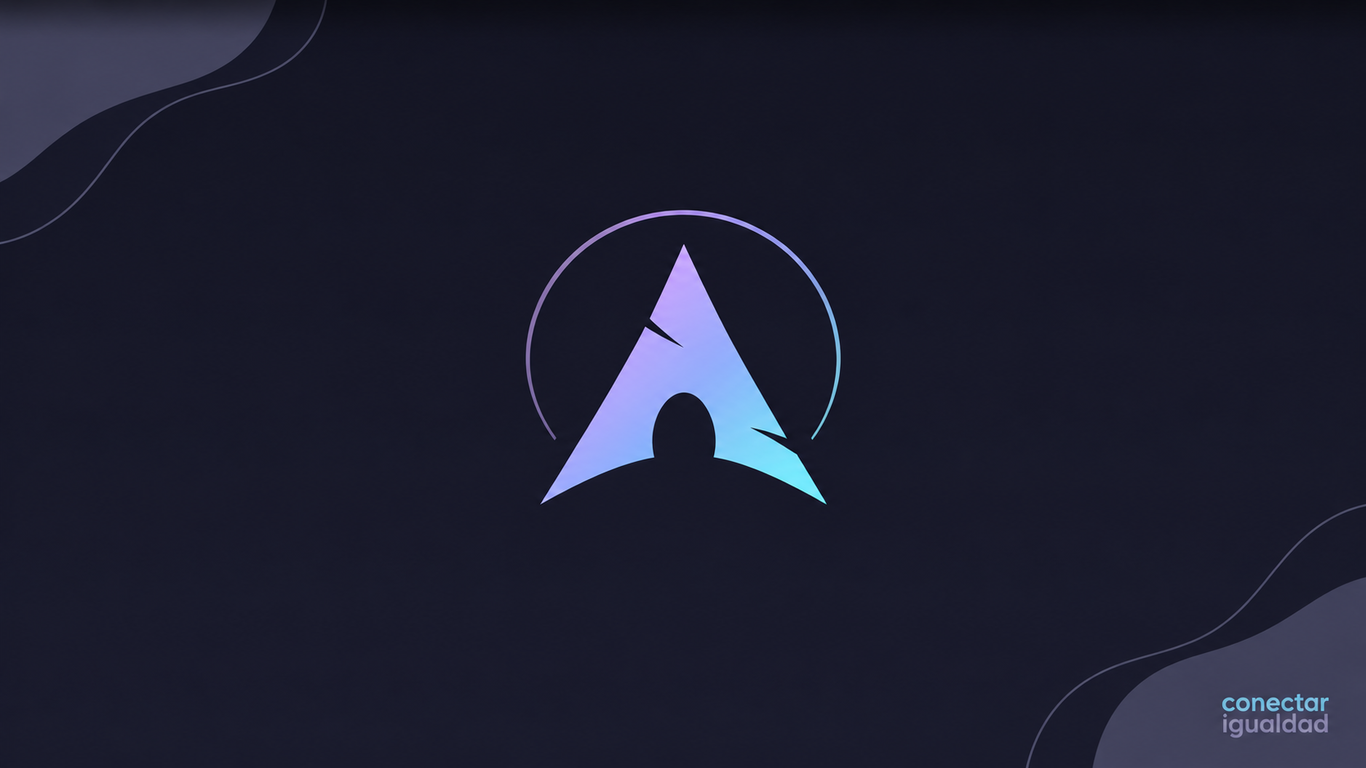
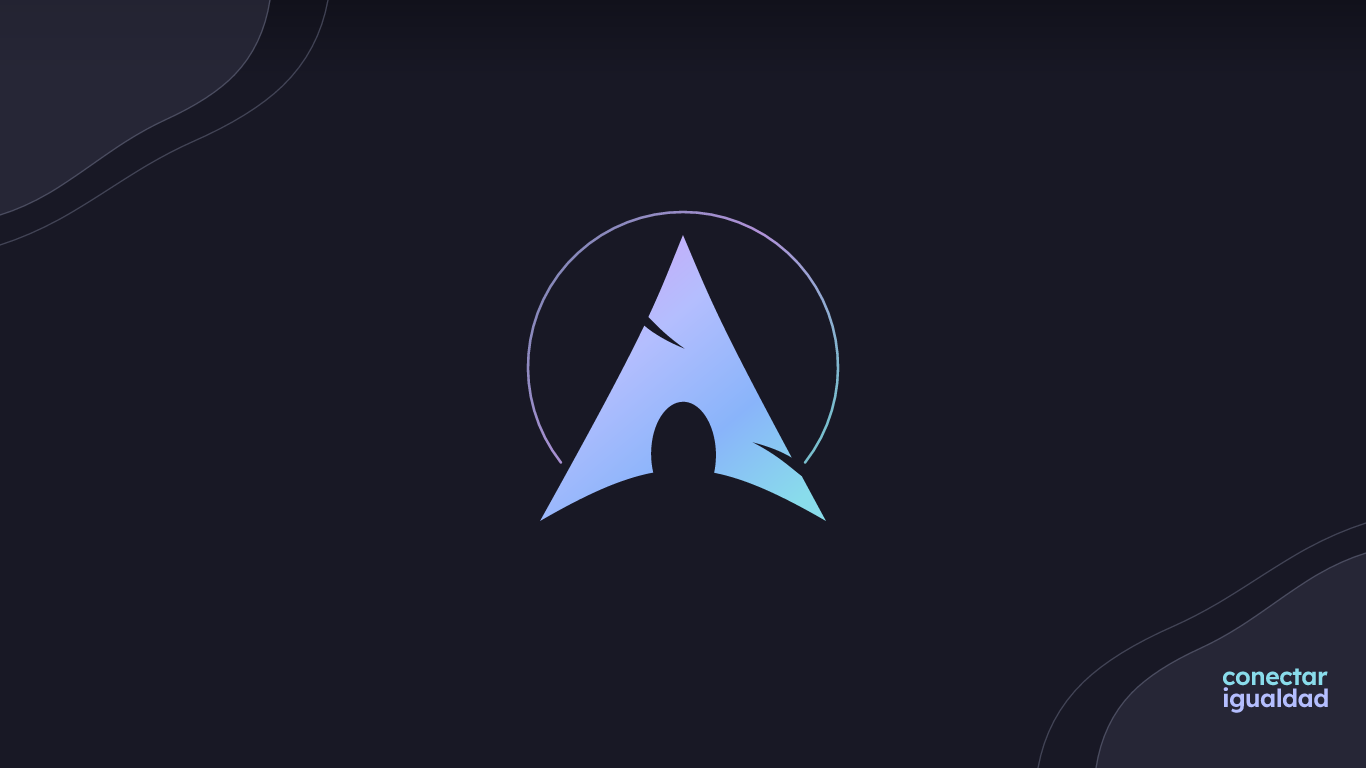
style(wallpaper): regenerar fondos Arch Mocha en vector puro 1366x768

diff --git a/docs/imagegen/wallpaper-arch-mocha-minimal.md b/docs/imagegen/wallpaper-arch-mocha-minimal.md
@@ -10,3 +10,4 @@ mate Catppuccin Mocha #181825, oscurecido sutilmente hacia #11111b arriba.
 Logo con gradiente discreto lavanda #b4befe a azul #89b4fa, sin resplandores ni
 sombras. Conservar la pequeña marca «conectar igualdad» abajo a la derecha.
 Amplio espacio vacío, sin adornos, interfaz ni texto adicional.
+Re-renderizado en vector puro (`resvg` a 1366×768 desde `/usr/share/pixmaps/archlinux-logo.svg` y tipografía `Lexend` SemiBold).

diff --git a/docs/imagegen/wallpaper-arch-mocha.md b/docs/imagegen/wallpaper-arch-mocha.md
@@ -11,4 +11,4 @@ Ondas discretas #313244 y #45475a con contornos #585b70. Mantener espacio
 negativo, bordes limpios, gradientes suaves y la marca inferior con margen.
 Sin elementos nuevos, interfaz, brillo ni marca de agua.
 
-Imagen: `home/Imágenes/wallpaper-arch-mocha.png`.
+Imagen: `home/Imágenes/wallpaper-arch-mocha.png` (re-renderizada en vector puro `resvg` a 1366×768 desde `/usr/share/pixmaps/archlinux-logo.svg` y `Lexend` SemiBold).

diff --git a/docs/imagegen/wallpaper-arch-mocha-sharp.md b/docs/imagegen/wallpaper-arch-mocha-sharp.md
@@ -10,3 +10,4 @@ con bordes limpios para mejorar legibilidad en un panel mate. Fondo oscuro
 «conectar igualdad». No añadir elementos ni agrandar el logo.
 
 Aplicación con `center` a resolución nativa para evitar escalado adicional.
+Re-renderizado en vector puro (`resvg` a 1366×768 desde `/usr/share/pixmaps/archlinux-logo.svg` y tipografía `Lexend` SemiBold) para eliminar manchas de difusión y halos en bordes.
